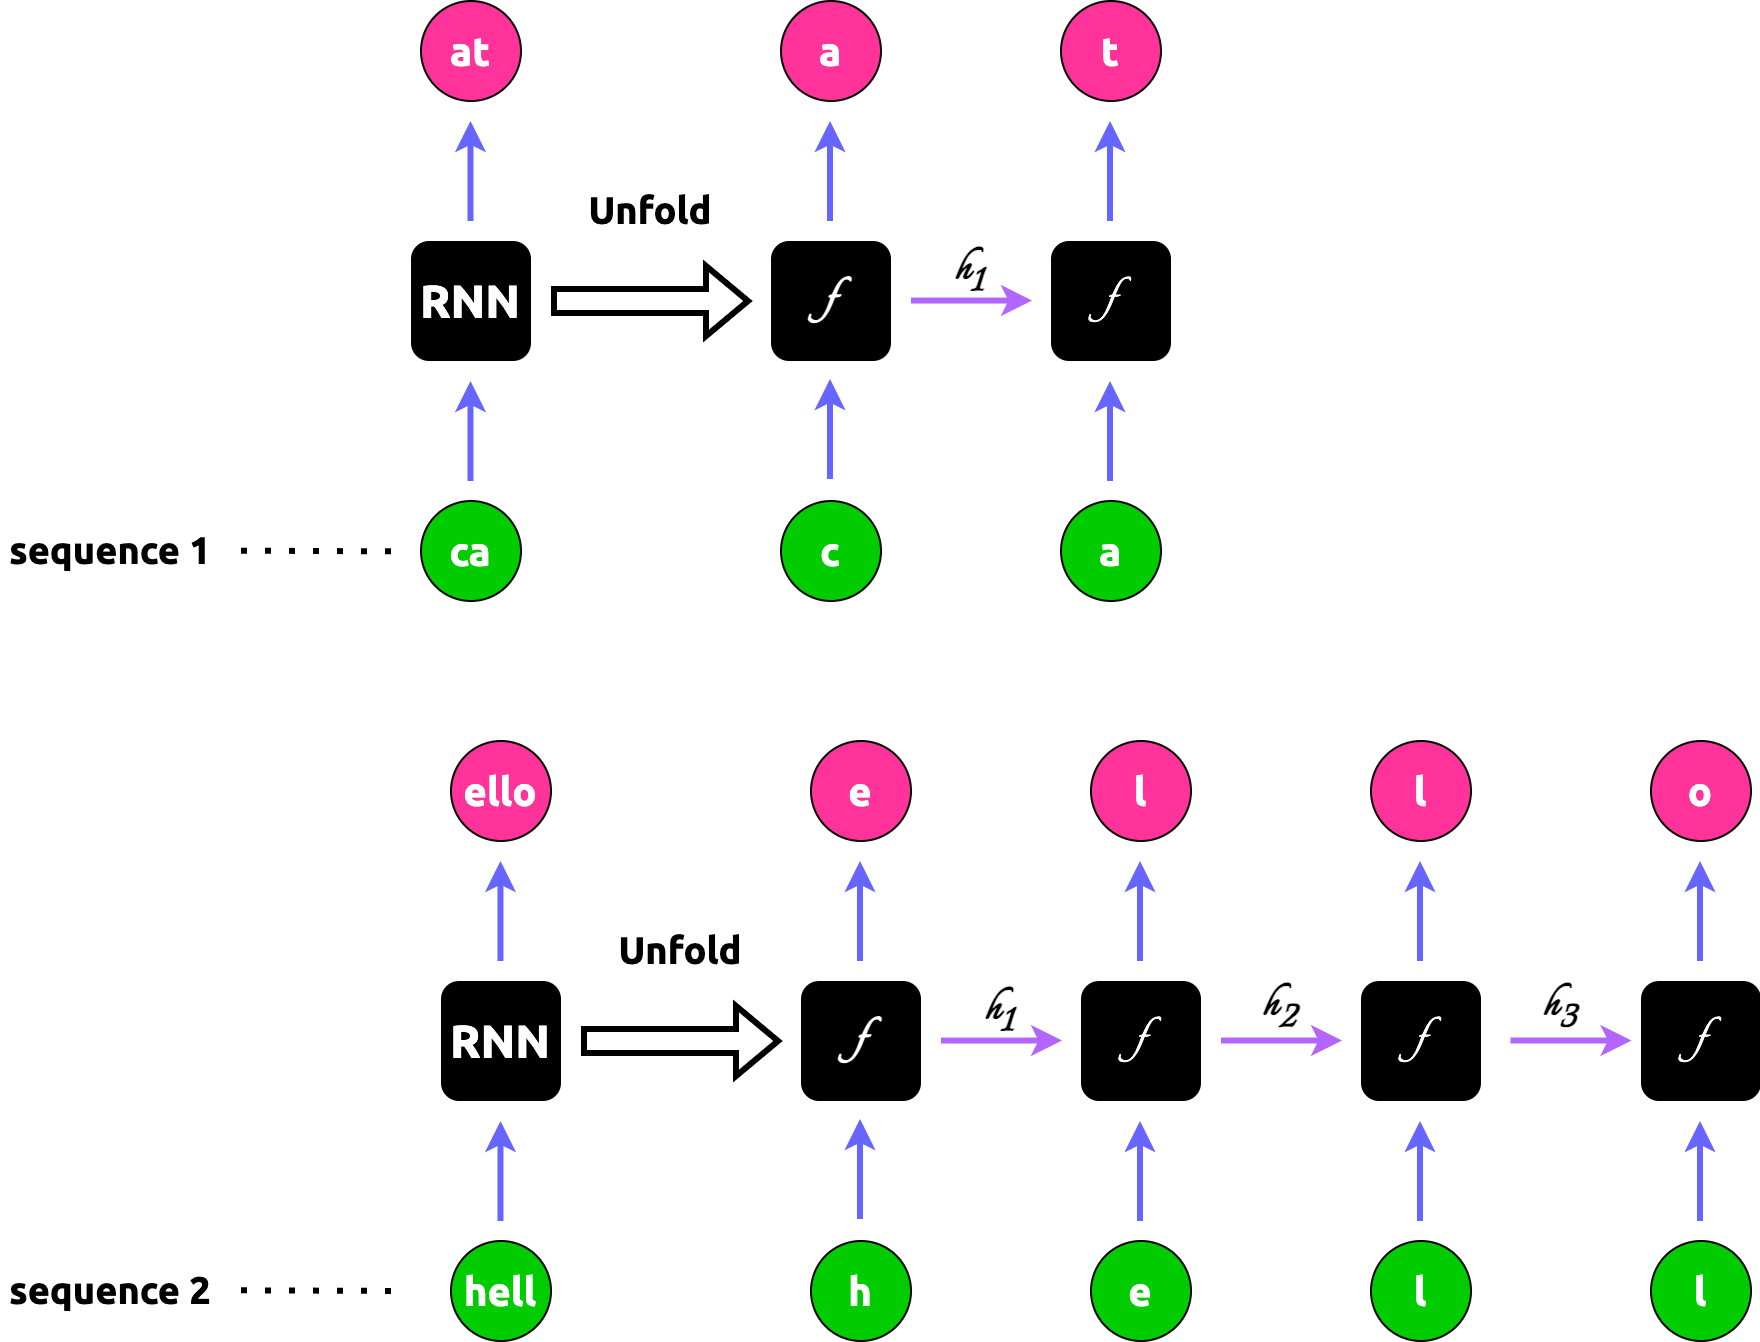
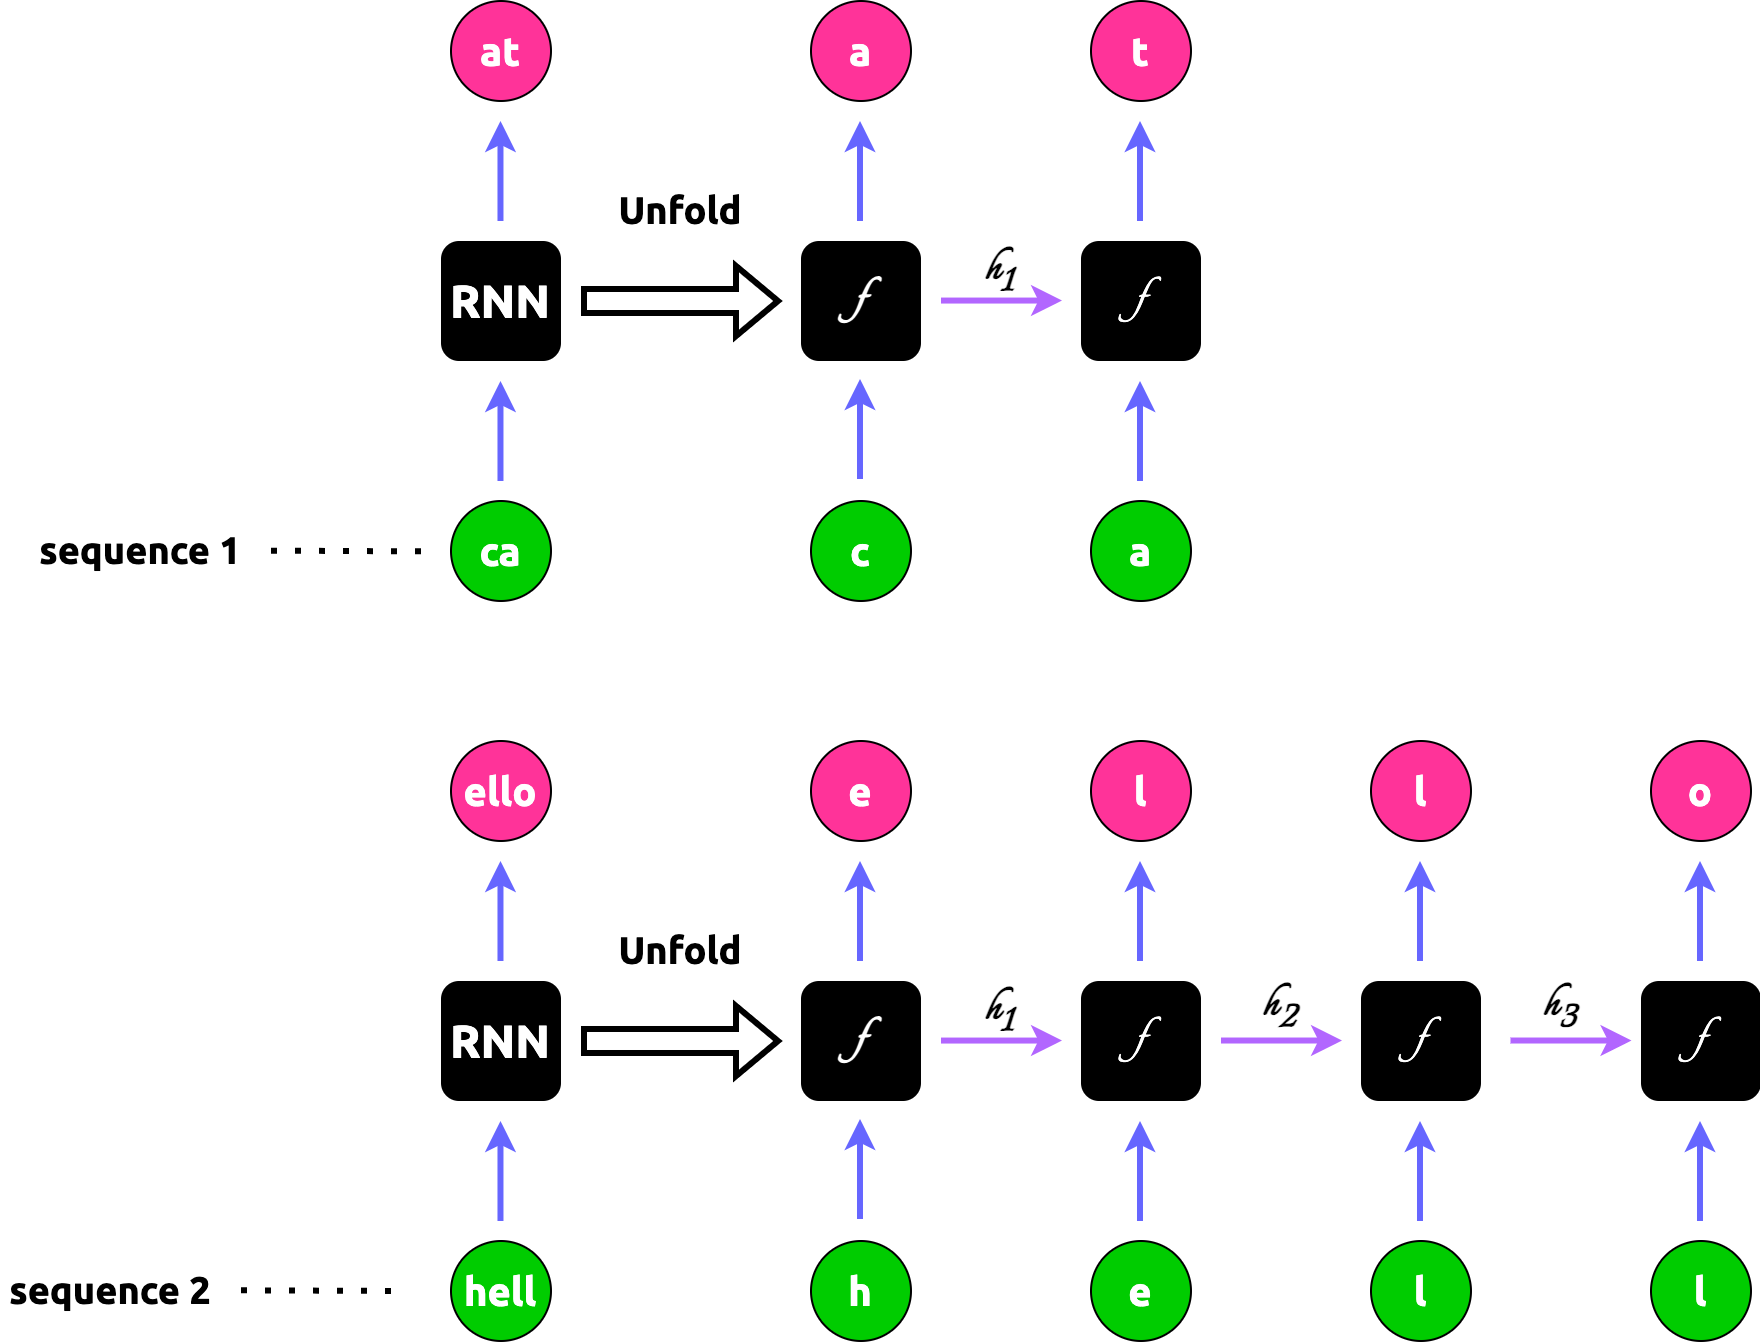
update

diff --git a/docs/source/rnn/vanilla.rst b/docs/source/rnn/vanilla.rst
@@ -51,7 +51,6 @@ we will have 2 black boxes to do the work.
 
 .. figure:: ../img/rnn-multi-sequences.png
     :align: center
-    :width: 80%
 
 What if the function :math:`f` is not smart enough to produce the correct output everytime? We will simply collect a lot
 of examples such as "cat" and "hello", feed them into the boxes to train them until they can output correct vocabulary
